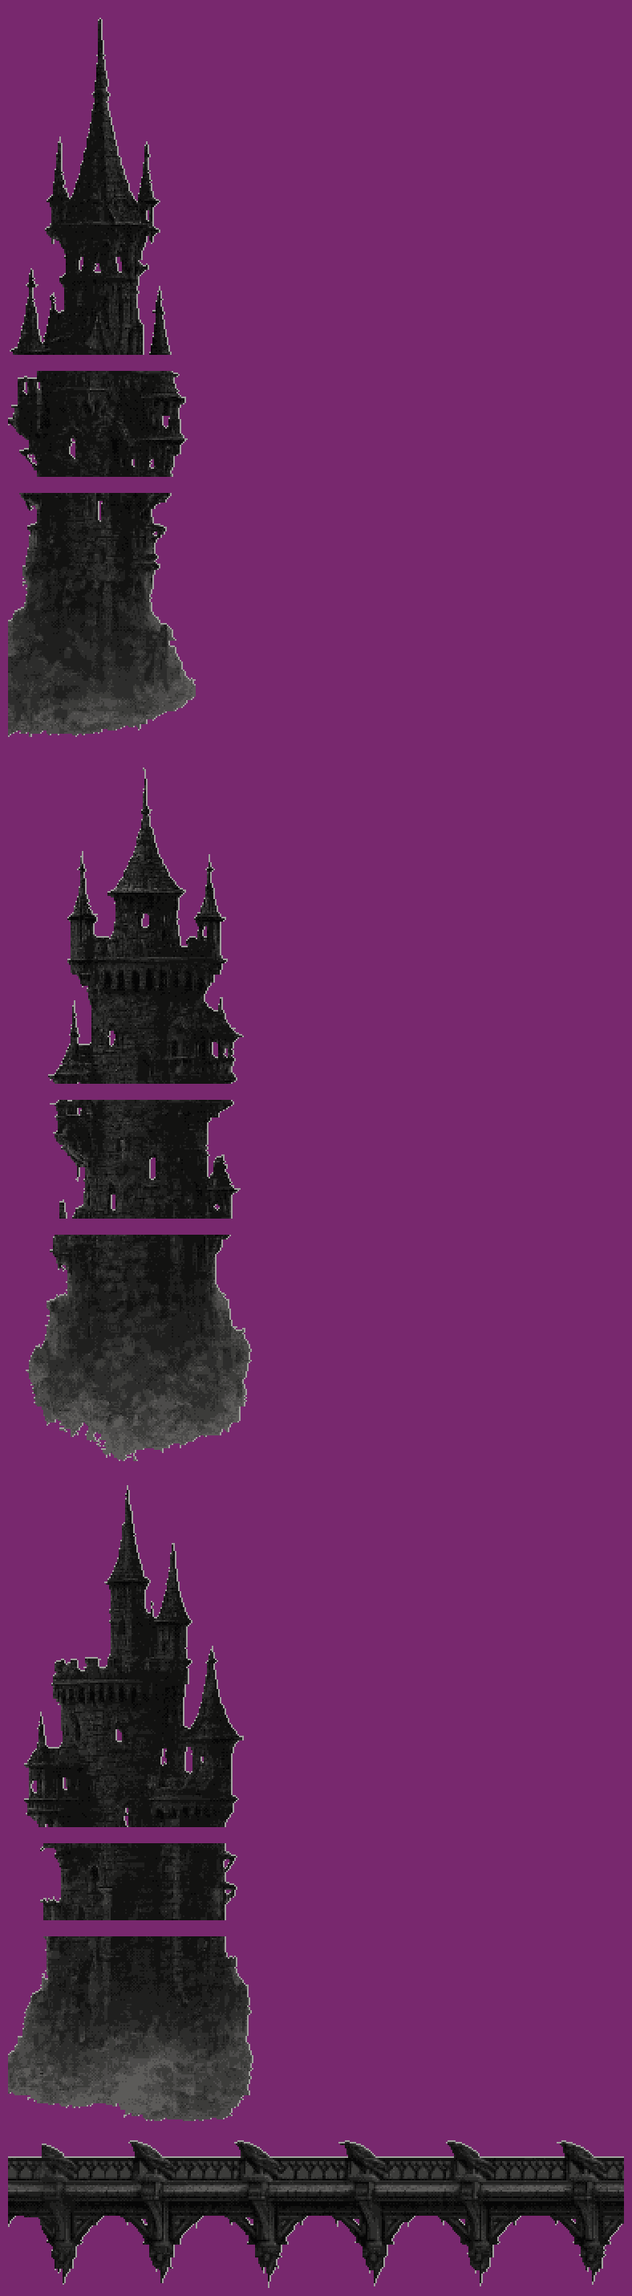
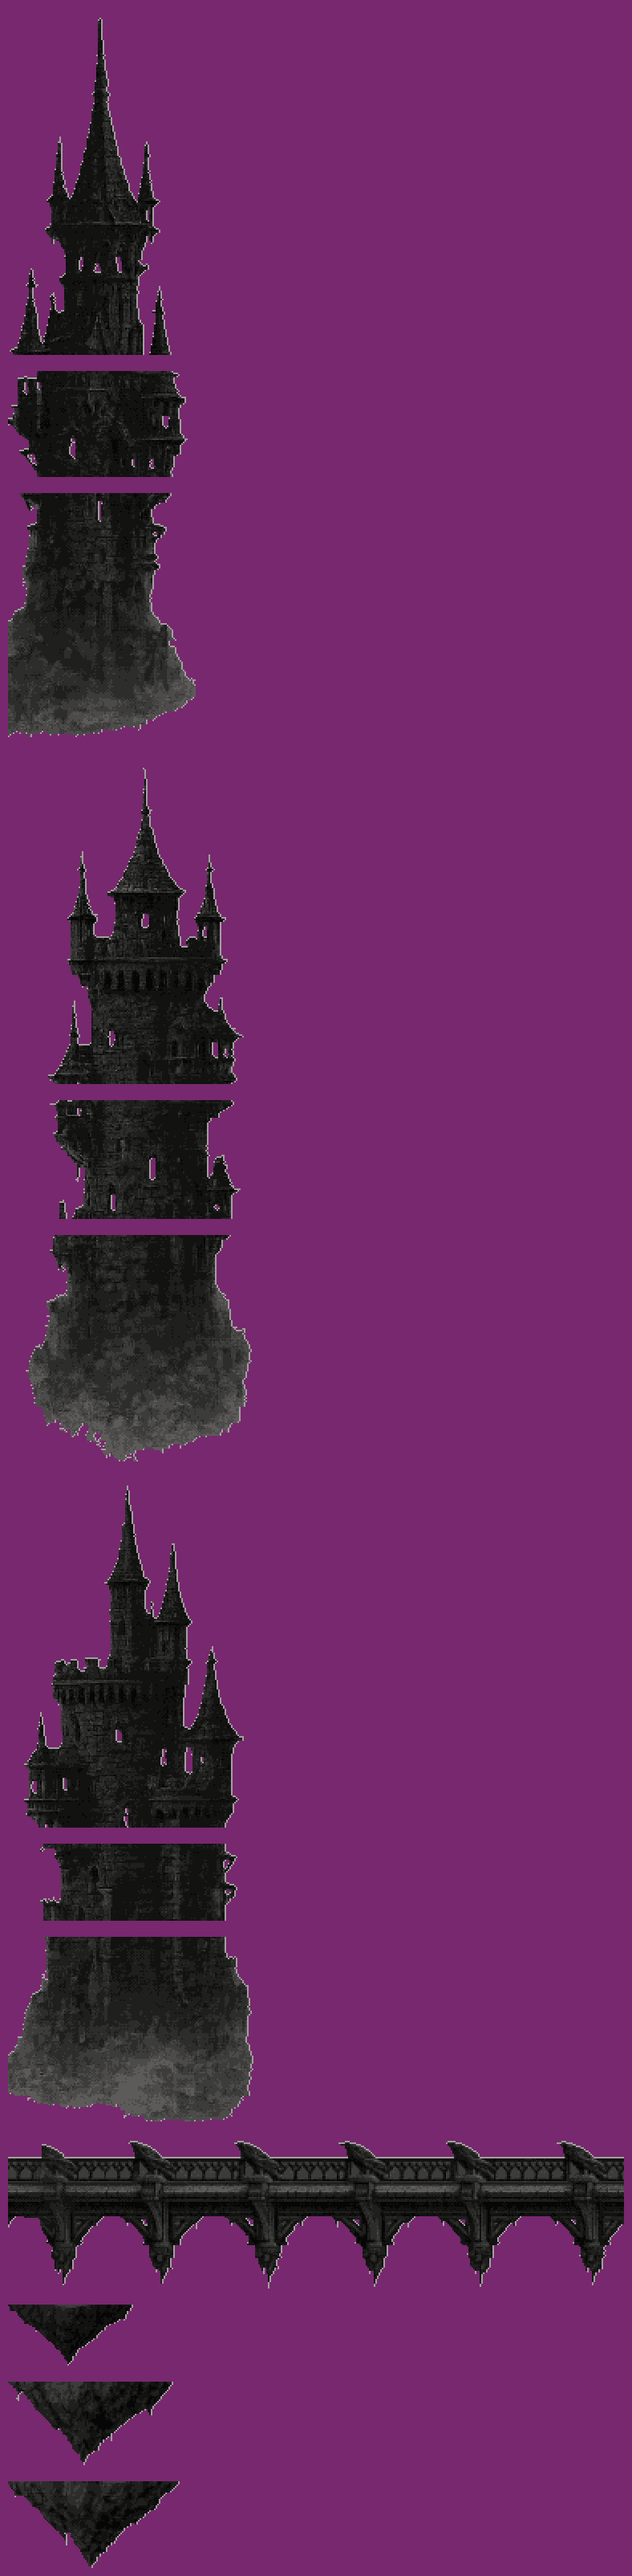
Tours : plus de pied de brume ; les tours posées s'arrêtent net, les îles portent un coin de roche ; les flèches ne blessent plus
- Le pied de brume des tours, peint pour des tours hautes, était à hauteur d'yeux sur le rempart (une tache deux fois
  plus large que le mur) et, sous les îles, une masse qu'on prenait pour un sol. Retiré.
- Une tour posée sur la pierre : son fût descend jusqu'à sa base et s'y arrête net, sur le rempart.
- Une île (un fragment qui flotte) porte dessous un coin de roche renversé, comme les îles de l'image d'ambiance :
  généré (tours-dessous), réduit par Pixel Artist (a/b/c-dessous, aussi sombre que les tours), plat (≈ 3 rangées) pour
  ne pas boucher le couloir de vol. Sa collision : de nouvelles cases u (roche d'île), calculées d'après ses pixels.
- Les flèches des tours ne sont plus des pics : un décor qui ne blesse pas (15 cases retirées).
- Vérifié : captures à hauteur du dragon (tour du rempart, île au cœur, île du donjon, île haute) ; la colonne de
  l'île haute monte toujours ; bûchers et Beffroi (relique) inchangés ; survol 28,6 s (25,7 s à l'origine, l'écart
  vient surtout du bûcher du Beffroi que le robot n'allume pas) ; npm test vert ; les 4 niveaux se chargent.

Changed region(s): [[0.0, 0.0311, 1.0, 0.9958]]

diff --git a/src/js/terrain.js b/src/js/terrain.js
@@ -3,7 +3,7 @@ import { FEU, NIVEAUX } from './config.js';
 import { IMAGES_ART, eclairVisible } from './decor.js';
 import { silhouette } from '../../pixel_artist/pantin/pantin.js';
 import { ctx } from './ecran.js';
-import { CORNICHE, FRAGILE, MONTEE_HERSE, PICS, ROC, TOUR, TP, bloque, caseA, porteOuverte } from './niveau.js';
+import { CORNICHE, FRAGILE, HERSE, ILE, MONTEE_HERSE, PICS, ROC, TOUR, TP, VIDE, bloque, caseA, porteOuverte } from './niveau.js';
 import { clamp, hash, toile } from './outils.js';
 import { coeur } from './rendu-monde.js';
 import { flamme } from './titre.js';
@@ -13,18 +13,19 @@ import { flamme } from './titre.js';
 // par clé de niveau (voir NIVEAUX) ; sousLeCiel : la crête seulement à l'air libre, et au plafond d'une alcôve le dessous
 // n'est qu'une corniche (pas de créneaux sur le sol d'une alcôve, pas de culs-de-lampe qui la remplissent)
 // galerie : l'image des corniches (=) à la place de la passerelle commune, et la ligne où l'on se pose (sol, en px) ;
-// pieces : les tours peintes (cases |), par largeur de tour en cases : sommet, fût (répété en hauteur), pied dans la brume ;
+// pieces : les tours peintes (cases |), par largeur de tour en cases : sommet, fût (répété en hauteur), et le cône de roche
+// qui pend sous une île (dessous) ;
 //   coeur : où commence la maçonnerie dans l'image (px) ; sol : la ligne du sommet de la tour dans l'image du sommet ;
-//   un ^ posé sur une tour est sa flèche : la pointe peinte le remplace. piedSous : la brume du pied déborde d'autant.
+//   un ^ posé sur une tour est sa flèche : la pointe peinte le remplace.
 export const TERRAIN = {
   terres: { roc: 'terrain/roc-terres', crete: 'terrain/crete-terres', dessous: 'terrain/dessous' },
   cimetiere: { roc: 'terrain/roc-cimetiere', crete: 'terrain/crete-cimetiere', dessous: 'terrain/dessous' },
   tours: { roc: 'terrain/roc-tours', crete: 'terrain/crete-tours', dessous: 'terrain/dessous-tours', sousLeCiel: true,
-           galerie: { image: 'tours-pieces/balcon', sol: 25 }, piedSous: 24,
+           galerie: { image: 'tours-pieces/balcon', sol: 25 },
            pieces: {
-             4: { sommet: 'tours-pieces/a-sommet', fut: 'tours-pieces/a-fut', pied: 'tours-pieces/a-pied', coeur: 26, sol: 138 },   // à flèche
-             5: { sommet: 'tours-pieces/b-sommet', fut: 'tours-pieces/b-fut', pied: 'tours-pieces/b-pied', coeur: 45, sol: 124 },   // terrasse
-             6: { sommet: 'tours-pieces/c-sommet', fut: 'tours-pieces/c-fut', pied: 'tours-pieces/c-pied', coeur: 32, sol: 124 },   // donjon
+             4: { sommet: 'tours-pieces/a-sommet', fut: 'tours-pieces/a-fut', dessous: 'tours-pieces/a-dessous', coeur: 26, sol: 138 },   // à flèche
+             5: { sommet: 'tours-pieces/b-sommet', fut: 'tours-pieces/b-fut', dessous: 'tours-pieces/b-dessous', coeur: 45, sol: 124 },   // terrasse
+             6: { sommet: 'tours-pieces/c-sommet', fut: 'tours-pieces/c-fut', dessous: 'tours-pieces/c-dessous', coeur: 32, sol: 124 },   // donjon
            } },
   cryptes: { roc: 'terrain/roc-cryptes', crete: null, dessous: null },
 };
@@ -54,12 +55,12 @@ export function construireTuiles() {
   return Object.fromEntries(Object.entries(TERRAIN).map(([cle, t]) => {
     const passerelle = IMAGES_ART[t.galerie ? t.galerie.image : 'terrain/passerelle'];
     const pieces = t.pieces && Object.fromEntries(Object.entries(t.pieces).map(([larg, p]) =>
-      [larg, { ...p, sommet: IMAGES_ART[p.sommet], fut: IMAGES_ART[p.fut], pied: IMAGES_ART[p.pied] }]));
+      [larg, { ...p, sommet: IMAGES_ART[p.sommet], fut: IMAGES_ART[p.fut], dessous: p.dessous && IMAGES_ART[p.dessous] }]));
     return [cle, {
       roc: IMAGES_ART[t.roc], dessous: t.dessous && IMAGES_ART[t.dessous],
       crete: t.crete && IMAGES_ART[t.crete], sol: t.crete ? ligneOpaque(IMAGES_ART[t.crete]) : 0, sousLeCiel: !!t.sousLeCiel,
       passerelle, tablier: t.galerie ? t.galerie.sol : ligneOpaque(passerelle), pointes: IMAGES_ART['terrain/pointes'], fissures,
-      pieces, piedSous: t.piedSous || 0,
+      pieces,
     }];
   }));
 }
@@ -95,25 +96,25 @@ function trouverTours(T) {
       }
     }
     g.pieces = T.pieces && T.pieces[g.x1 - g.x0 + 1];
+    // posée si toute sa base repose sur la pierre ; sinon c'est une île, et son cône de roche pend dessous
+    g.flotte = false;
+    for (let x = g.x0; x <= g.x1; x++) { const t = g.y1 + 1 < H ? J.NIV.cases[(g.y1 + 1) * L + x] : VIDE; if (t !== ROC && t !== TOUR && t !== FRAGILE && t !== HERSE) g.flotte = true; }
     if (g.pieces) for (const k of g.cases) peintes[k] = 1;
     tours.push(g);
   }
   return { tours, peintes };
 }
-// une tour peinte : le sommet sur sa première rangée, le fût répété jusqu'au pied, le pied qui déborde dans la brume
+// une tour peinte : le sommet sur sa première rangée, puis le fût répété jusqu'à sa base, où elle s'arrête net.
+// Posée, elle se tient sur le rempart ; une île (un fragment qui flotte) porte dessous son cône de roche renversé,
+// qui recouvre ses cases u : ce qu'on voit est ce qui arrête le dragon
 function peindreTour(g, T, t) {
-  const p = t.pieces, X = t.x0 * TP - p.coeur, haut = t.y0 * TP - p.sol, base = (t.y1 + 1) * TP + T.piedSous;
-  // une tour courte (une île qui flotte) : le sommet s'arrête sous sa terrasse, et le bas du pied (sa brume) le prolonge,
-  // au lieu d'un sommet coupé net
-  const s = p.sommet, f = p.fut, pd = p.pied, reserve = Math.min(pd.height, Math.max(0, base - (haut + p.sol) - 16));
-  const basSommet = Math.min(base - reserve, haut + s.height);
-  const place = base - basSommet, hPied = Math.min(pd.height, place);          // le pied, rogné par le haut
-  let y = basSommet;
-  for (const fin = base - hPied; y < fin; y += f.height) {
-    const h = Math.min(f.height, fin - y);
+  const p = t.pieces, X = t.x0 * TP - p.coeur, haut = t.y0 * TP - p.sol, base = (t.y1 + 1) * TP;
+  const s = p.sommet, f = p.fut, basSommet = Math.min(base, haut + s.height);
+  if (t.flotte && p.dessous) { const d = p.dessous; g.drawImage(d, Math.round((t.x0 + t.x1 + 1) * TP / 2 - d.width / 2), base - 2); }
+  for (let y = basSommet; y < base; y += f.height) {
+    const h = Math.min(f.height, base - y);
     g.drawImage(f, 0, 0, f.width, h, X, y, f.width, h);
   }
-  if (hPied > 0) g.drawImage(pd, 0, pd.height - hPied, pd.width, hPied, X, base - hPied, pd.width, hPied);
   g.drawImage(s, 0, 0, s.width, basSommet - haut, X, haut, s.width, basSommet - haut);
 }
 function peindreBande(i) {
@@ -154,7 +155,7 @@ function peindreTerrain(g, x0, x1) {
   const peinte = (tx, ty) => tx >= 0 && tx < L && ty >= 0 && ty < H && cache.peintes && cache.peintes[ty * L + tx] === 1;
   const roche = (tx, ty) => { const t = caseA(tx, ty); return t === ROC || t === FRAGILE || (t === TOUR && !peinte(tx, ty)); };
   // ce qui est massif, pour les bords : une roche contre une tour n'a ni liseré, ni crête, ni roche qui pend
-  const plein = (tx, ty) => roche(tx, ty) || caseA(tx, ty) === TOUR;
+  const plein = (tx, ty) => roche(tx, ty) || caseA(tx, ty) === TOUR || caseA(tx, ty) === ILE;
   // des pics posés sur une tour peinte sont sa flèche : c'est la pointe peinte du sommet qui les montre
   const flecheDeTour = (tx, ty) => { let y = ty; while (caseA(tx, y) === PICS) y++; return caseA(tx, y) === TOUR && peinte(tx, y); };
   const tx0 = Math.max(0, Math.floor(x0 / TP) - 1), tx1 = Math.min(L - 1, Math.floor(x1 / TP) + 1);
@@ -225,8 +226,7 @@ function peindreTerrain(g, x0, x1) {
       } else g.drawImage(c, mod(tx * TP, c.width), 0, TP, c.height, tx * TP, ty * TP - T.sol, TP, c.height);
     }
   }
-  // 5. les tours peintes, par-dessus tout le reste du terrain (leur pied de brume couvre le haut des fondations,
-  //    leurs saillies couvrent le bout des galeries qui s'y accrochent)
+  // 5. les tours peintes, par-dessus tout le reste du terrain (leurs saillies couvrent le bout des galeries qui s'y accrochent)
   for (const t of cache.tours) {
     if (!t.pieces) continue;
     const X = t.x0 * TP - t.pieces.coeur;

diff --git a/src/js/niveau.js b/src/js/niveau.js
@@ -9,9 +9,10 @@ import { retoucherTerrain } from './terrain.js';
 // ================= Niveaux : cases, collisions, objets (fichiers niveaux/acteN.txt) =================
 
 export const TP = 16;                                           // une case = 16 × 16 pixels
-export const VIDE = 0, ROC = 1, CORNICHE = 2, PICS = 3, FRAGILE = 4, COURANT = 5, HERSE = 6, TOUR = 7;
+export const VIDE = 0, ROC = 1, CORNICHE = 2, PICS = 3, FRAGILE = 4, COURANT = 5, HERSE = 6, TOUR = 7, ILE = 8;
 // | : maçonnerie de tour, qui bloque comme la roche mais se dessine avec les pièces peintes du niveau (TERRAIN[…].pieces)
-export const CASES = { '#': ROC, '=': CORNICHE, '^': PICS, 'x': FRAGILE, '~': COURANT, 'H': HERSE, '|': TOUR };
+// u : la roche sous une île (un fragment de tour qui flotte) ; elle bloque, et c'est le cône peint de l'île qui la montre
+export const CASES = { '#': ROC, '=': CORNICHE, '^': PICS, 'x': FRAGILE, '~': COURANT, 'H': HERSE, '|': TOUR, 'u': ILE };
 export const ENNEMIS_CARTE = { c: 'charognard', a: 'ame', b: 'chauve', s: 'spectre', k: 'crane' };
 // objets de décor, posés sur le sol, sans collision (images : construireAccessoires dans terrain.js) :
 // arbre mort, tombe, croix, gargouille tournée vers la droite (G) ou vers la gauche (g), étendard en lambeaux (B), clocheton (I)
@@ -117,7 +118,7 @@ export function lireNiveau(n) {
 // la porte de sortie n'apparaît qu'une fois toutes les reliques de l'acte ramassées
 export const porteOuverte = () => J.NIV.prises >= J.NIV.reliques;
 export const caseA = (tx, ty) => (tx < 0 || tx >= J.NIV.l || ty < 0 ? ROC : ty >= J.NIV.h ? VIDE : J.NIV.cases[ty * J.NIV.l + tx]);
-export const bloque = (t) => t === ROC || t === FRAGILE || t === HERSE || t === TOUR;
+export const bloque = (t) => t === ROC || t === FRAGILE || t === HERSE || t === TOUR || t === ILE;
 export function briser(tx, ty) {               // un mur fissuré s'effondre d'un bloc : toutes les cases fragiles qui se touchent
   const pile = [[tx, ty]];
   let gauche = tx, droite = tx;

diff --git a/skills/jeu-assets-pixel-art/SKILL.md b/skills/jeu-assets-pixel-art/SKILL.md
@@ -32,7 +32,10 @@ Méthode éprouvée sur Dragon Rider (jeu gothique en noir et blanc) : chaque im
 
 ## Structures de premier plan (tours, piliers, arbres géants)
 
-Quand le décor lui-même sert de plateformes (des tours où l'on se pose), peindre les éléments et les découper **en trois tranches** : sommet (terrasse ou toit en flèche), fût qui se répète en hauteur, pied qui se fond dans la brume. Prévoir une largeur de pièce par largeur de structure sur la carte. Le moteur les assemble à la hauteur voulue, et les collisions restent celles des cases. C'est la découpe « 3 tranches » du pipeline Sillage : tuiler, jamais étirer.
+Quand le décor lui-même sert de plateformes (des tours où l'on se pose), peindre les éléments et les découper **en tranches** : sommet (terrasse ou toit en flèche), fût qui se répète en hauteur, et ce qui est sous la base.
+- **Rien de plus large que la collision sous l'endroit où l'on se pose.** Un « pied qui se perd dans la brume », peint pour des tours hautes, est arrivé à hauteur d'yeux quand les tours sont devenues basses : une tache deux fois plus large que le mur (« vraiment moche, mal intégré, pas logique »), et sous une île, une masse qu'on prenait pour un sol (« on s'attend à se poser dessus, mais non »).
+- **Une tour posée s'arrête net sur sa base.** **Un fragment qui flotte porte dessous un coin de roche renversé** (comme les îles de l'image d'ambiance), plus étroit vers le bas : on ne se pose pas sur une pointe. Le coin se génère plat (deux fois plus large que haut), sinon il bouche le couloir de vol, et sa collision se calcule d'après ses pixels (Dragon Rider : cases `u`).
+- **Un décor pointu ne blesse pas.** Des flèches de tour qui blessaient : « le joueur ne va jamais comprendre ». Prévoir une largeur de pièce par largeur de structure sur la carte. Le moteur les assemble à la hauteur voulue, et les collisions restent celles des cases. C'est la découpe « 3 tranches » du pipeline Sillage : tuiler, jamais étirer.
 
 ## La validation : une seule fois, au bon niveau
 

diff --git a/skills/jeu-level-design/SKILL.md b/skills/jeu-level-design/SKILL.md
@@ -29,6 +29,7 @@ Les premières Tours de Dragon Rider ont été jugées « très laborieuses » :
 - **L'espace se mesure au personnage.** Le héros d'Owlboy fait 1/12 de l'écran et vole dans des salles grandes comme l'écran. Un grand personnage demande des passages d'au moins une dizaine de cases, jamais moins d'une fois et demie sa longueur.
 - **Le ciel reste ouvert.** Le décor reste en bas : une ligne d'horizon (brume, remparts) d'où sortent des sommets bas, espacés d'environ un écran, qui servent de perchoirs. On vole au-dessus sans remonter chaque obstacle. Des îles (des fragments de tour qui flottent) meublent le haut, toujours contournables.
 - **La hauteur se gagne dans des puits larges ou par des courants ascendants**, avec des rebords réguliers. Mieux qu'une colonne toute faite : un **bûcher** au fond du puits, que le joueur allume lui-même ; il éclaire la salle sombre et devient son chemin pour remonter (Dragon Rider, Tours). Aucune montée de plus de 40 % du souffle sans un endroit où se poser.
+- **Les îles** (fragments de tour qui flottent) portent dessous un coin de roche dont la collision (cases `u`) est calculée d'après ses pixels : ce qu'on voit est ce qui arrête. Les flèches des tours sont un décor, sans pics.
 - **Une seule grande tour, comme but.** On la grimpe par ses balcons alternés, avec un courant à côté ; la relique est au sommet. Un tel géant bloque le chemin : pas plus d'un par niveau.
 - **Les ennemis viennent au joueur.** En plein ciel, un ennemi posé qui attend ne menace personne. Des volées surgissent du bord de l'écran, devant le personnage (comme les têtes de Méduse de Castlevania), et un ennemi ne doit jamais rester figé contre un mur : il le contourne par-dessus.
 - **Le vérifier au robot** : `outils/tests/survol.mjs` traverse le niveau en vol à altitude de croisière et dit s'il se bloque. Sur les anciennes Tours, le robot restait coincé à 60 % du niveau ; sur les nouvelles, il traverse en 26 s.

diff --git a/README.md b/README.md
@@ -103,7 +103,7 @@ Chaque niveau est un fichier texte, `niveaux/<cle>.txt`, dont la clé est décla
 | `~` | colonne de cendre (porte vers le haut, rend le souffle) | `T` `t` `+` | arbre mort, tombe, croix (décor) |
 | `\|` | tour peinte (bloque comme le roc) | `G` `g` `B` `I` | gargouille tournée vers la droite, vers la gauche ; étendard en lambeaux ; clocheton (décor) |
 
-Tours peintes : chaque groupe de cases `|` qui se touchent se dessine avec les pièces de `TERRAIN[…].pieces` pour sa largeur (dans les Tours : 4 cases, une tour à flèche ; 5, une terrasse à échauguettes ; 6, un donjon), sommet sur sa première rangée, fût répété en hauteur, pied de brume en bas. Des `^` posés sur une tour sont sa flèche : c'est la pointe peinte qui les montre, et ils blessent. Les corniches `=` se dessinent avec la galerie du niveau (`TERRAIN[…].galerie`). Une largeur sans pièces se dessine en roc.
+Tours peintes : chaque groupe de cases `|` qui se touchent se dessine avec les pièces de `TERRAIN[…].pieces` pour sa largeur (dans les Tours : 4 cases, une tour à flèche ; 5, une terrasse à échauguettes ; 6, un donjon), sommet sur sa première rangée, fût répété en hauteur, pied de brume en bas. La flèche d'une tour à flèche est peinte par son sommet : c'est un décor, qui ne blesse pas (le joueur ne pouvait pas deviner qu'elle blessait). Une tour posée sur la pierre s'arrête net à sa base ; une tour qui flotte (une île) porte dessous un cône de roche renversé, dont la collision est faite de cases `u` (calculées d'après les pixels du cône). Les corniches `=` se dessinent avec la galerie du niveau (`TERRAIN[…].galerie`). Une largeur sans pièces se dessine en roc.
 
 Bûcher (`w`) : le feu l'embrase pour de bon, et sa fumée monte en colonne de cendre (elle porte le dragon et lui rend le souffle) sur 3 cases de large, jusqu'à la première pierre.
 
